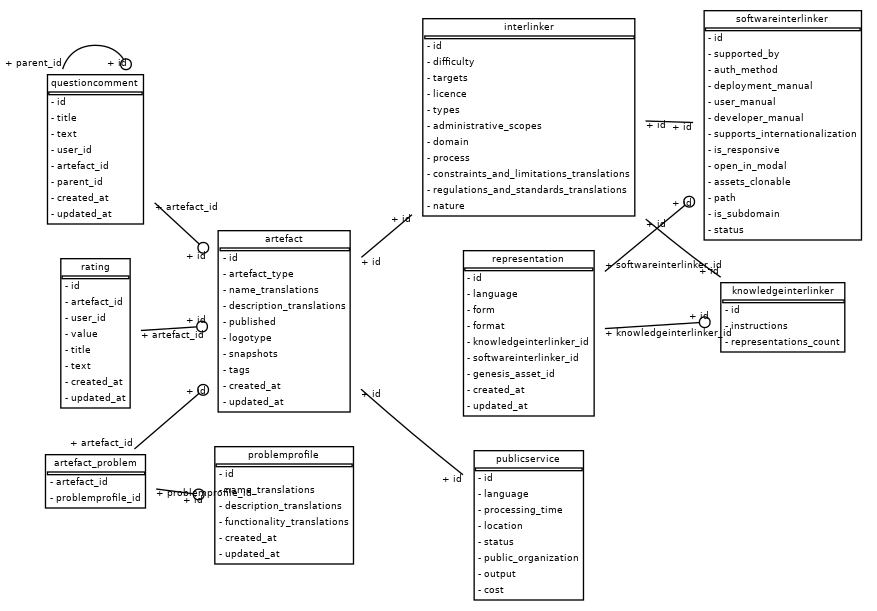
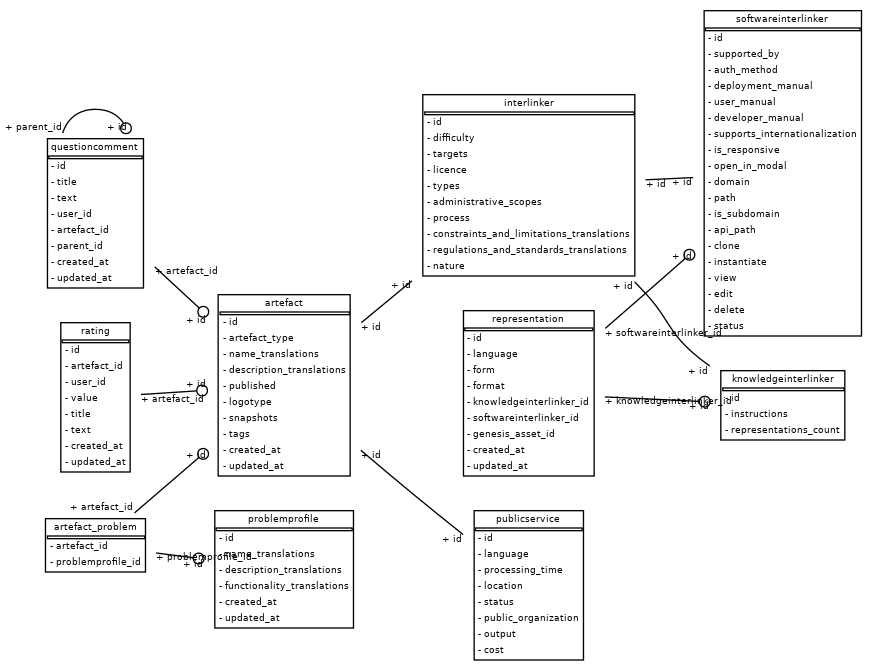
Software interlinker api_path

Changed region(s): [[0.0, 0.0, 0.9852, 0.9951], [0.4618, 0.7152, 0.4926, 0.7463]]

diff --git a/catalogue/app/initial_data.py b/catalogue/app/initial_data.py
@@ -51,13 +51,9 @@ def create_interlinker(metadata_path):
         data = json.load(json_file)
 
     # if already exists, stop iteration
-    data["name_translations"] = data["name"]
-    data["description_translations"] = data["description"]
-    data["constraints_and_limitations_translations"] = data["constraints_and_limitations"]
-    data["regulations_and_standards_translations"] = data["regulations_and_standards"]
     print(data["name_translations"])
 
-    name = data["name"]["en"]
+    name = data["name_translations"]["en"]
     slug = slugify(name)
     print(f"\n{bcolors.OKBLUE}Processing {bcolors.ENDC}{bcolors.BOLD}{name}{bcolors.ENDC}")
 
@@ -101,6 +97,19 @@ def create_interlinker(metadata_path):
         destination = f"{str_static_path}/logotype{file_extension}"
         move_file(origin, destination)
         data["logotype"] = f"/static/{slug}/logotype{file_extension}"
+
+        data["service_name"] = data["endpoint"]["service_name"]
+        data["domain"] = data["endpoint"]["domain"]
+        data["path"] = data["endpoint"]["path"]
+        data["is_subdomain"] = data["endpoint"]["is_subdomain"]
+        data["api_path"] = data["endpoint"]["api_path"]
+        del data["endpoint"]
+        data["instantiate"] = data["capabilities"]["instantiate"]
+        data["clone"] = data["capabilities"]["clone"]
+        data["view"] = data["capabilities"]["view"]
+        data["edit"] = data["capabilities"]["edit"]
+        data["delete"] = data["capabilities"]["delete"]
+        del data["capabilities"]
 
         # create interlinker
         crud.interlinker.create(
@@ -185,9 +194,6 @@ if __name__ == "__main__":
                 db=db,
                 id=id
             ):
-                problem["name_translations"] =  problem["name"]
-                problem["description_translations"] =  problem["description"]
-                problem["functionality_translations"] =  problem["functionality"]
                 crud.problemprofile.create(
                     db=db,
                     problemprofile=schemas.ProblemProfileCreate(**problem)

diff --git a/catalogue/app/interlinkers/models.py b/catalogue/app/interlinkers/models.py
@@ -39,7 +39,7 @@ class Interlinker(Artefact):
     types = Column(ARRAY(String), default=list)
     # related_interlinkers
     administrative_scopes = Column(ARRAY(String), default=list)
-    domain = Column(String, nullable=True)
+    # domain = Column(String, nullable=True)
     process = Column(String, nullable=True)
     constraints_and_limitations = Column(String, nullable=True)
     regulations_and_standards = Column(String, nullable=True)
@@ -80,11 +80,19 @@ class SoftwareInterlinker(Interlinker):
     supports_internationalization = Column(Boolean, default=False)
     is_responsive = Column(Boolean, default=False)
     open_in_modal = Column(Boolean, default=False)
-    assets_clonable = Column(Boolean, default=False)
 
+    service_name = Column(String)
+    domain = Column(String)
     path = Column(String)
     is_subdomain = Column(Boolean, default=False)
+    api_path = Column(String)
 
+    # capabilities
+    clone = Column(Boolean, default=False)
+    instantiate = Column(Boolean, default=True)
+    view = Column(Boolean, default=True)
+    edit = Column(Boolean, default=False)
+    delete = Column(Boolean, default=True)
 
     status = Column(String, default="off")
     __mapper_args__ = {
@@ -98,9 +106,10 @@ class SoftwareInterlinker(Interlinker):
     def backend(self):
         if settings.DEVSOLOMODE:
             return None
+        SERVER_NAME = self.domain or settings.SERVER_NAME
         if self.is_subdomain:
-            return f"{settings.PROTOCOL}{self.path}.{settings.SERVER_NAME}"
-        return f"{settings.PROTOCOL}{settings.SERVER_NAME}/{self.path}"
+            return f"{settings.PROTOCOL}{self.path}.{SERVER_NAME}{self.api_path}"
+        return f"{settings.PROTOCOL}{SERVER_NAME}/{self.path}{self.api_path}"
 
 class KnowledgeInterlinker(Interlinker):
     """

diff --git a/catalogue/app/interlinkers/crud.py b/catalogue/app/interlinkers/crud.py
@@ -46,7 +46,6 @@ class CRUDInterlinker(CRUDBase[Interlinker, InterlinkerCreate, InterlinkerPatch]
                 "types": interlinker.types,
                 # "related_interlinkers":interlinker.related_interlinkers,
                 "administrative_scopes": interlinker.administrative_scopes,
-                "domain": interlinker.domain,
                 "process": interlinker.process,
                 "constraints_and_limitations_translations": interlinker.constraints_and_limitations_translations,
                 "regulations_and_standards_translations": interlinker.regulations_and_standards_translations,
@@ -62,9 +61,16 @@ class CRUDInterlinker(CRUDBase[Interlinker, InterlinkerCreate, InterlinkerPatch]
             data["supports_internationalization"] = interlinker.supports_internationalization
             data["is_responsive"] = interlinker.is_responsive
             data["open_in_modal"] = interlinker.open_in_modal
-            data["assets_clonable"] = interlinker.assets_clonable
+            data["service_name"] = interlinker.service_name
+            data["domain"] = interlinker.domain
             data["path"] = interlinker.path
             data["is_subdomain"] = interlinker.is_subdomain
+            data["api_path"] = interlinker.api_path
+            data["instantiate"] = interlinker.instantiate
+            data["clone"] = interlinker.clone
+            data["view"] = interlinker.view
+            data["edit"] = interlinker.edit
+            data["delete"] = interlinker.delete
 
             db_obj = SoftwareInterlinker(**data)
         if type(interlinker) == KnowledgeInterlinkerCreate:

diff --git a/catalogue/app/interlinkers/schemas.py b/catalogue/app/interlinkers/schemas.py
@@ -32,7 +32,7 @@ class BaseInterlinkerBase(ArtefactBase):
     types: Optional[List[InterlinkerTypes]]
     related_interlinkers: Optional[List[str]]
     administrative_scopes: Optional[List[AdministrativeScopes]]
-    domain: Optional[str]
+    # domain: Optional[str]
     process: Optional[str]
 
 class BaseInterlinkerCreate(ArtefactCreate, BaseInterlinkerBase):
@@ -78,12 +78,20 @@ class SoftwareBaseInterlinkerBase(BaseInterlinkerBase):
     # GUI is responsive
     open_in_modal: bool
     # assets for specific interlinkers may be opened on a modal, not in a new tab
-    assets_clonable: bool
-    # exposes an /assets/{id}/clone/ API endpoint?
 
+    # endpoint
+    service_name: str
+    domain: str
     path: str
     is_subdomain: bool
+    api_path: str
 
+    # capabilities
+    instantiate: bool
+    clone: bool
+    view: bool
+    edit: bool
+    delete: bool
 
 class SoftwareInterlinkerCreate(BaseInterlinkerCreate, SoftwareBaseInterlinkerBase):
     pass

diff --git a/catalogue/app/representations/models.py b/catalogue/app/representations/models.py
@@ -5,6 +5,8 @@ from sqlalchemy.dialects.postgresql import UUID
 from sqlalchemy.orm import relationship
 
 from app.general.db.base_class import Base as BaseModel
+
+
 class Representation(BaseModel):
     """
     Defines the representations model
@@ -23,7 +25,7 @@ class Representation(BaseModel):
 
     @property
     def link(self):
-        return f"{self.softwareinterlinker.backend}/assets/{self.genesis_asset_id}"
+        return f"{self.softwareinterlinker.backend}/{self.genesis_asset_id}"
 
     def __repr__(self) -> str:
         return f"<Representation for {self.knowledgeinterlinker.name}>"
